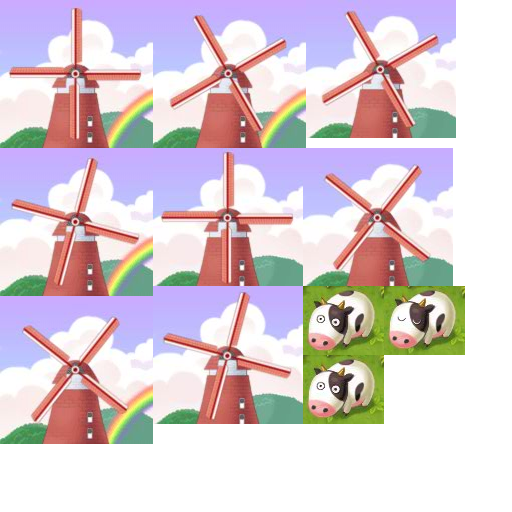
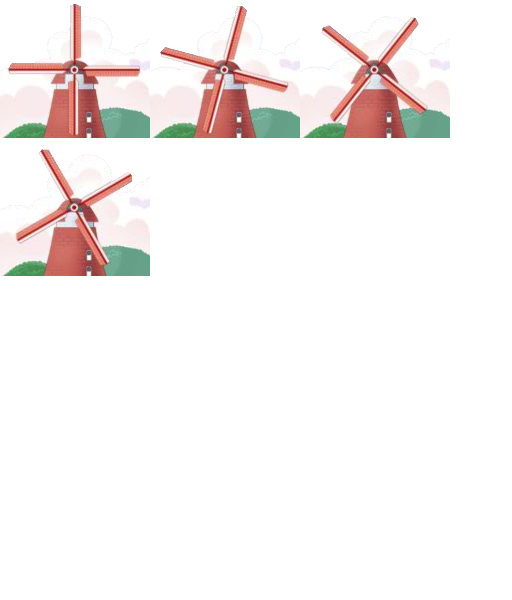
增加动态风车

diff --git a/my/main.js b/my/main.js
@@ -179,10 +179,8 @@ Game.prototype = {
 		this.diceTwo.paint(context);
 		this.diceTwo.update(context,time);
 
-		// this.windmillTwo.paint(context);
-		// this.windmillTwo.update(context,time);
-		// this.windmillTwo.left = canvas.width - this.windmillTwo.width;
-		// this.windmillTwo.top = canvas.height - this.windmillTwo.height;
+		this.windmill.paint(context);
+		this.windmill.update(context,time);
 	},
 
 	createSprites:function(){
@@ -193,10 +191,12 @@ Game.prototype = {
 		this.diceTwo = new Sprite("diceTwo",new SpriteSheets(Config.imgSource[0],
 																this.findCellData("diceTwo",Config.jsonObj["dice"])),
 																this.diceTwoBehaivor);
-		// this.windmillTwo = new Sprite("windmillTwo",new SpriteSheets(Config.imgSource[1],
-		// 														this.findCellData("windmillTwo",Config.jsonObj["dynamic-embellish"])),
-		// 														[this.windmillTwoBehavior]);
-		
+		this.windmill = new Sprite("windmill",new SpriteSheets(Config.imgSource[1],
+																this.findCellData("windmill",Config.jsonObj["dynamic-embellish"])),
+																[this.windmillTwoBehavior]);
+		this.windmill.left = 15;
+		this.windmill.top = canvas.height - 160;
+
 		this.diceOne.diceAnimationTimer = new AnimationTimer(800,AnimationTimer.makeEaseInOutTransducer());
 		this.diceTwo.diceAnimationTimer = new AnimationTimer(1000,AnimationTimer.makeEaseInTransducer(1.1));
 
